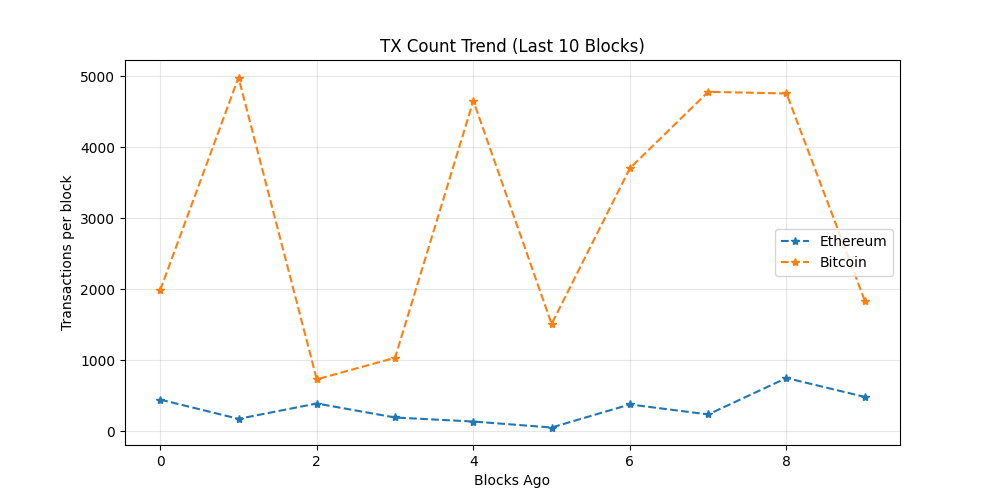
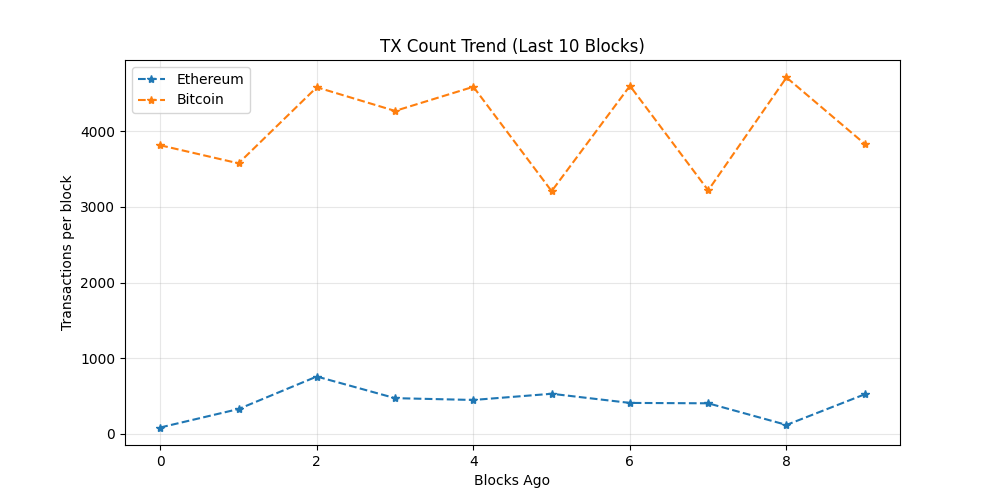
chore: update on-chain dashboard

diff --git a/README.md b/README.md
@@ -19,7 +19,7 @@ The README itself acts as the dashboard and is regenerated automatically on a 6 
 demonstrating a production-style, infrastructure-focused observability workflow rather
 than a traditional UI-driven approach.
 
-_Last updated: 2026-03-26 13:58 UTC_
+_Last updated: 2026-03-26 19:31 UTC_
 
 ## API Usage (GetBlock.io)
 - Calls used: **24**
@@ -27,8 +27,8 @@ _Last updated: 2026-03-26 13:58 UTC_
 ## Network Metrics
 | Chain | Block Height | TX Count | TPS (10 blk avg) | Block Util | Avg Fee |
 |------|-------------|----------|------------------|------------|---------|
-| Ethereum | 24742180 | 486 | 40.5 | 54.68% | 0.1 Gwei |
-| Bitcoin | 942327 | 1843 | 49.81 | 99.79% | N/A |
+| Ethereum | 24743839 | 523 | 43.58 | 71.2% | 0.1 Gwei |
+| Bitcoin | 942356 | 3834 | 10.5 | 99.72% | N/A |
 
 ## Visuals
 ### Transactions Trend
@@ -43,7 +43,11 @@ _Last updated: 2026-03-26 13:58 UTC_
 ## Whale Alerts (latest block)
 - Transaction hashes are truncated for readability.
 - Full hashes are available in `dashboards/metrics.json`
-No whale-sized transfers detected in latest blocks.
+- Bitcoin | 438.4 BTC | `b220c9f4eaf8…`
+- Bitcoin | 333.58 BTC | `d323eb7b0a38…`
+- Bitcoin | 235.61 BTC | `b0a3726b1b6e…`
+- Bitcoin | 130.93 BTC | `e11a2a06165c…`
+- Bitcoin | 113.42 BTC | `7d958ea5eac4…`
 
 ## Run locally
 
